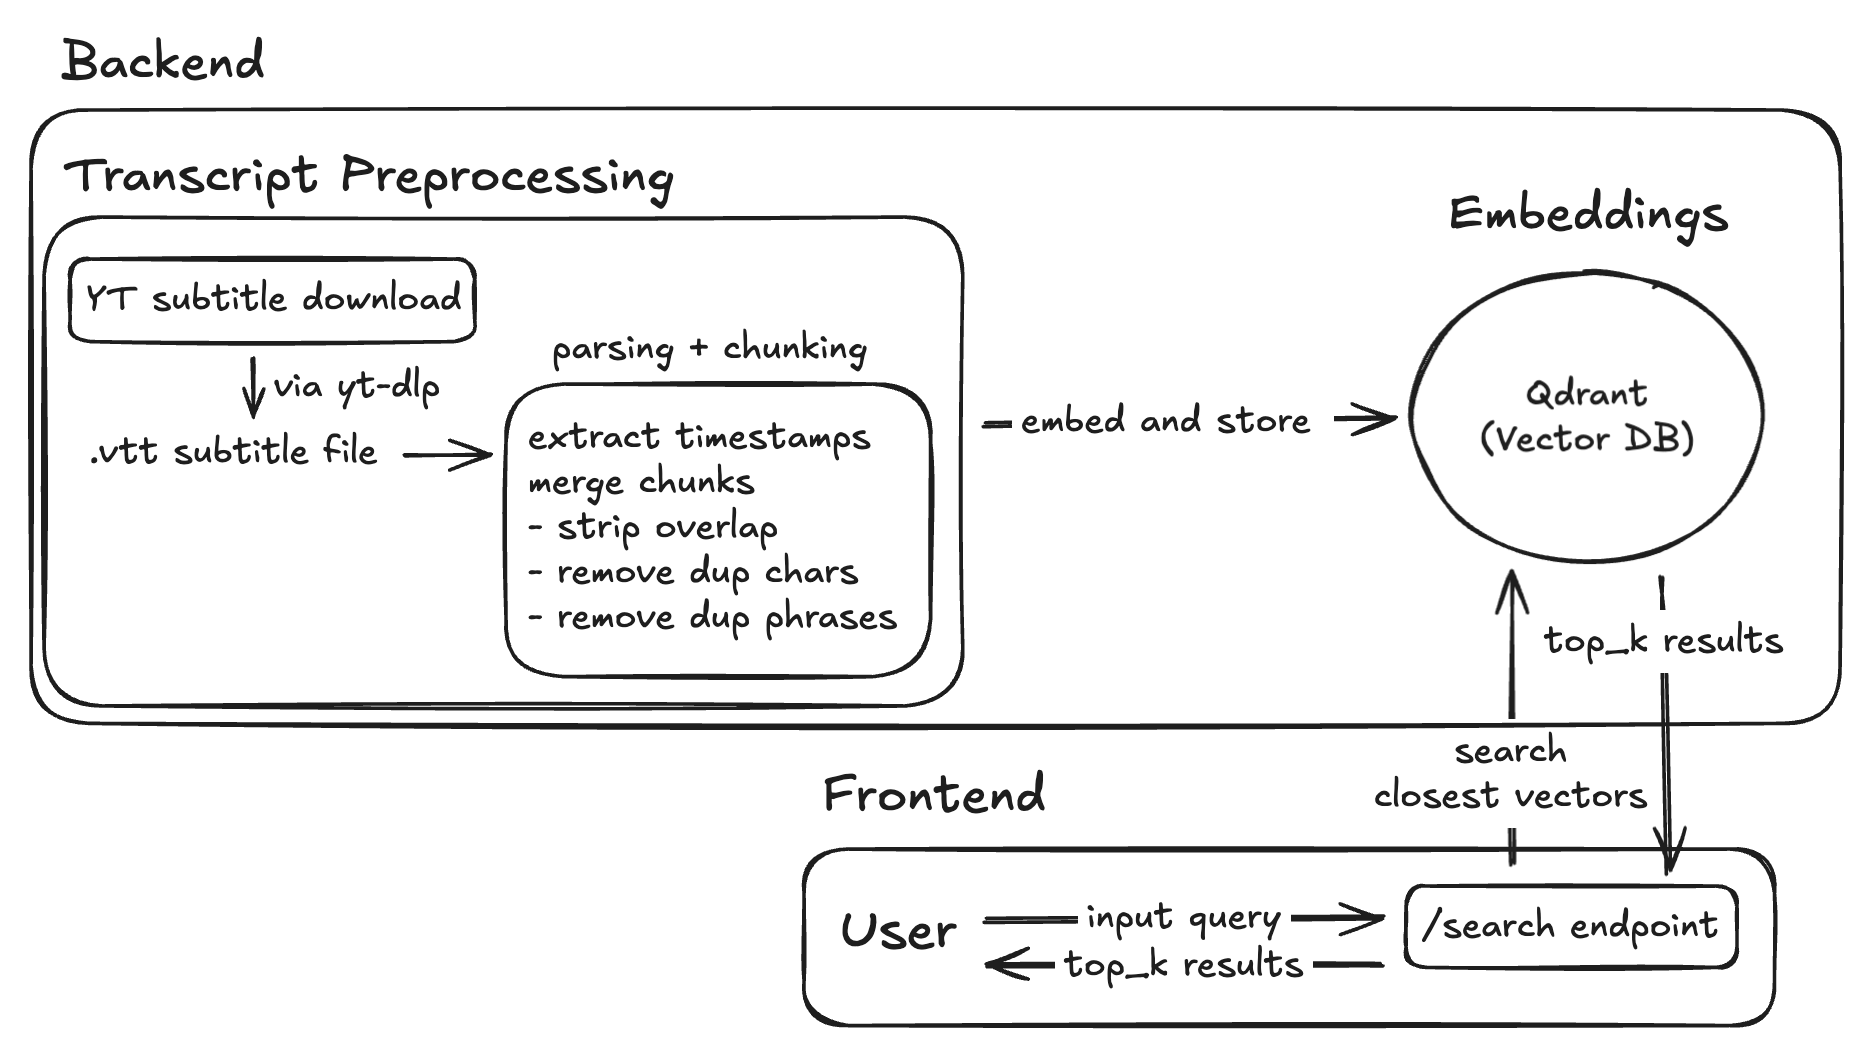
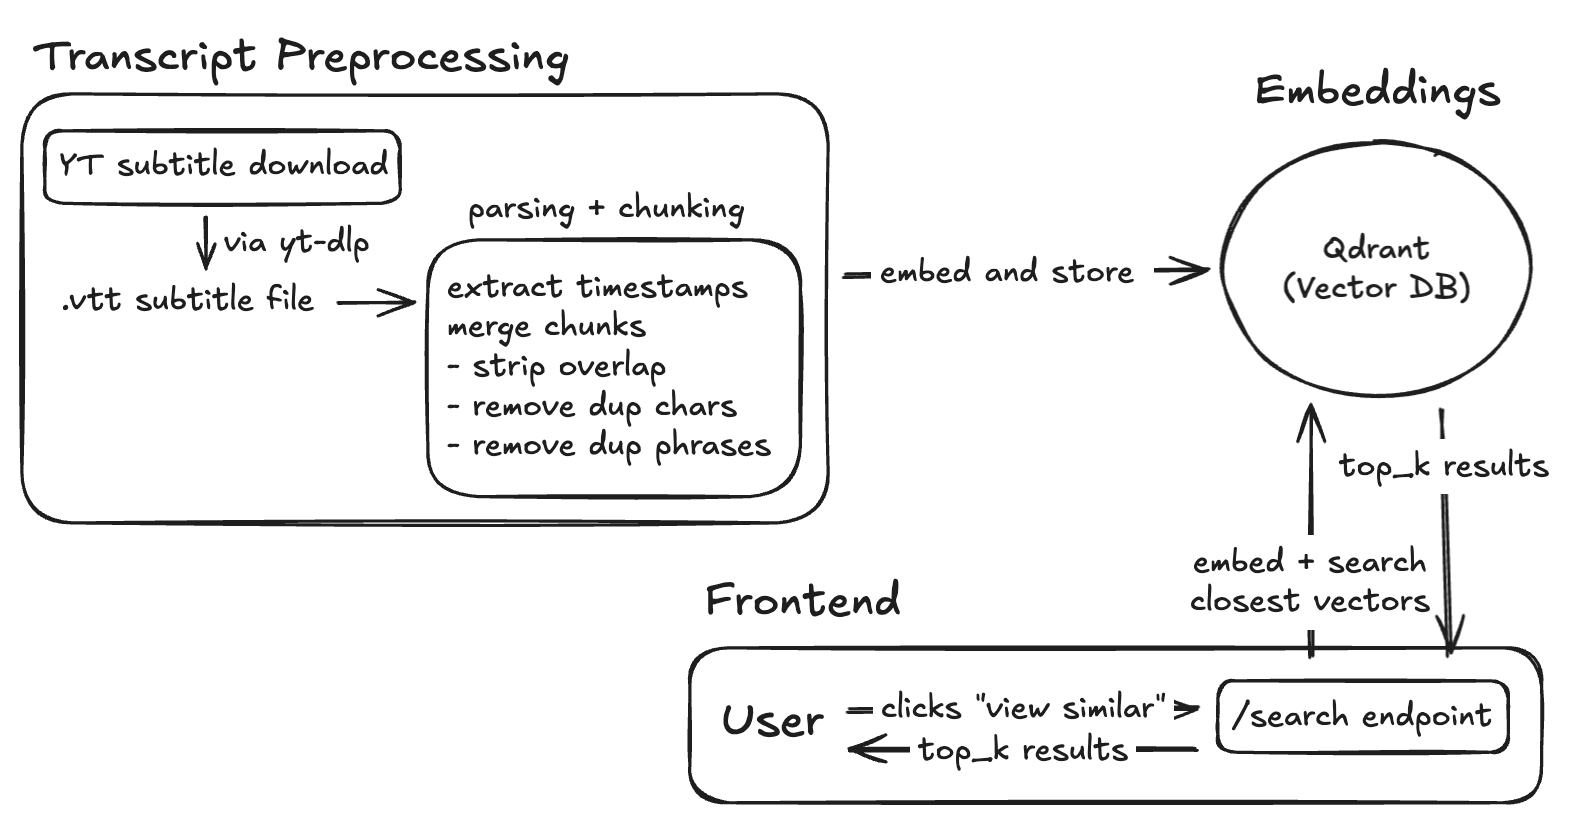
start to incl search as part of yt player flow + parser improvements

Changed region(s): [[0.0, 0.0302, 0.9899, 0.9964], [0.4021, 0.8152, 0.4331, 0.8454]]

diff --git a/backend/transcripts/vtt_parser.py b/backend/transcripts/vtt_parser.py
@@ -5,6 +5,8 @@ HARD_CHAR_LIMIT = 160
 SOFT_TOKEN_LIMIT = 35  # Approximate token threshold per chunk
 HARD_TOKEN_LIMIT = 50
 
+SENTENCE_ENDINGS = ("다", "요", "니다", ".", "!", "?")
+
 # === Transcript Parsing ===
 def clean_vtt_text(raw_text):
     # Remove inline timestamp and <c> tags
@@ -47,48 +49,61 @@ def parse_vtt_file(vtt_path):
         seg["start"] = time_str_to_seconds(seg["start"])
         seg["end"] = time_str_to_seconds(seg["end"])
 
-    return merge_chunks(raw_segments)
+    return chunk_by_sentences(raw_segments)
 
-# === Merging Chunks ===
-def merge_chunks(segments):
-    merged = []
-    curr = None
+# === Sentence-aware Chunking ===
+def chunk_by_sentences(segments):
+    chunks = []
+    current_chunk = {"text": "", "start": None, "end": None}
 
     for seg in segments:
-        seg_text = seg["text"].strip()
+        sentences = split_into_sentences(seg["text"])
+        for sentence in sentences:
+            if not sentence.strip():
+                continue
 
-        if len(seg_text) < 5:
-            continue
+            # fix overlap between sentence chunks
+            # E.g., line 1: "이 제품은 진짜 좋아요.", line 2: "진짜 좋아요. 정말 편해요."
+            sentence = strip_overlap(current_chunk["text"], sentence)
+            sentence = strip_fuzzy_overlap(current_chunk["text"], sentence)
 
-        if not curr:
-            curr = seg.copy()
-            continue
+            sentence_token_count = count_tokens(sentence)
+            sentence_char_count = len(sentence)
 
-        combined_text = f"{curr['text']} {seg_text}".strip()
-        combined_token_count = count_tokens(combined_text)
+            if current_chunk["text"]:
+                combined_text = f"{current_chunk['text']} {sentence}".strip()
+                combined_token_count = count_tokens(combined_text)
+                combined_char_count = len(combined_text)
+            else:
+                combined_text = sentence
+                combined_token_count = sentence_token_count
+                combined_char_count = sentence_char_count
 
-        if (
-            (len(combined_text) > SOFT_CHAR_LIMIT or combined_token_count > SOFT_TOKEN_LIMIT)
-            and ends_in_sentence(curr["text"])
-        ) or (
-            len(combined_text) > HARD_CHAR_LIMIT or combined_token_count > HARD_TOKEN_LIMIT
-        ):
-            merged.append(curr)
-            curr = seg.copy()
-        else:
-            seg_text = strip_overlap(curr["text"], seg_text)
-            seg_text = strip_fuzzy_overlap(curr["text"], seg_text)
-            curr["end"] = seg["end"]
-            curr["text"] = f"{curr['text']} {seg_text}".strip()
+            if (combined_token_count > HARD_TOKEN_LIMIT or combined_char_count > HARD_CHAR_LIMIT):
+                chunks.append({
+                    "text": polish_text(current_chunk["text"]),
+                    "start": current_chunk["start"],
+                    "end": current_chunk["end"]
+                })
+                current_chunk = {
+                    "text": sentence,
+                    "start": seg["start"],
+                    "end": seg["end"]
+                }
+            else:
+                if not current_chunk["text"]:
+                    current_chunk["start"] = seg["start"]
+                current_chunk["text"] = combined_text
+                current_chunk["end"] = seg["end"]
 
-    if curr:
-        merged.append(curr)
+    if current_chunk["text"]:
+        chunks.append({
+            "text": polish_text(current_chunk["text"]),
+            "start": current_chunk["start"],
+            "end": current_chunk["end"]
+        })
 
-    for m in merged:
-        m["text"] = polish_text(m["text"])
-
-    # second pass for intra-check repetitions + repeated word/phrases across chunk boundary
-    return clean_chunk_overlaps(merged)
+    return clean_chunk_overlaps(chunks)
 
 # === Overlap Handling ===
 def strip_overlap(prev_text, next_text, window=5):
@@ -109,26 +124,8 @@ def strip_fuzzy_overlap(prev: str, curr: str, max_len: int = 50) -> str:
             return curr[i:].strip()
     return curr
 
-# window = max # of consecutive repeated words to check across word boundary
-def clean_chunk_overlaps(chunks, max_overlap_len=12):
-    cleaned = [chunks[0]]
-    for i in range(1, len(chunks)):
-        prev = cleaned[-1]["text"]
-        curr = chunks[i]["text"]
-
-        for w in range(max_overlap_len, 2, -1):
-            prev_suffix = ' '.join(prev.split()[-w:])
-            if prev_suffix in curr and curr.startswith(prev_suffix):
-                curr = curr[len(prev_suffix):].strip()
-                break
-
-        cleaned.append({**chunks[i], "text": polish_text(curr)})
-
-    return cleaned
-
-# === Sentence-Aware Splitting ===
-def ends_in_sentence(text):
-    return text.endswith(("다", "요", "니다", ".", "!", "?"))
+def split_into_sentences(text):
+    return re.split(r'(?<=[\.\?!다요니다])\s+', text)
 
 # === Token Estimation ===
 def count_tokens(text):
@@ -176,5 +173,21 @@ def polish_text(text):
     text = remove_bracket_tags(text)
     text = remove_duplicate_phrases_rough(text)
     text = remove_redundant_phrases(text)
-    
     return text.strip()
+
+# === Post-chunk Deduplication ===
+def clean_chunk_overlaps(chunks, max_overlap_len=12):
+    cleaned = [chunks[0]]
+    for i in range(1, len(chunks)):
+        prev = cleaned[-1]["text"]
+        curr = chunks[i]["text"]
+
+        for w in range(max_overlap_len, 2, -1):
+            prev_suffix = ' '.join(prev.split()[-w:])
+            if prev_suffix in curr and curr.startswith(prev_suffix):
+                curr = curr[len(prev_suffix):].strip()
+                break
+
+        cleaned.append({**chunks[i], "text": polish_text(curr)})
+
+    return cleaned

diff --git a/README.md b/README.md
@@ -19,21 +19,14 @@
   - Stopword removal
   - YAML-configured grammar rule engine for scalability and easy rule expansion
 
-### Search
-
-![Semantic Search Pipeline](./docs/semantic-search-pipeline.png)
-
-- Semantic search across Korean YouTube transcripts
-  - Transcripts are automatically cleaned, deduplicated, and chunked
-  - Overlapping and repeated phrases are removed
-- Vector search powered by OpenAI (`text-embedding-3-small`) + Qdrant
-
-
 ### YouTube Player
 
 - Embedded video player with live transcript sync
 - Click any subtitle chunk to trigger a language analysis
   - Sentence gloss + inline Hanja annotations (with Pinyin + gloss)
+- Related chunk discovery (In-Progress):
+  - Semantic search across videos via OpenAI embeddings + Qdrant
+  - Shows similar phrases from other videos (based on meaning, not keywords)
 
 ### Deep Dives
 - [YouTube Player](./docs/youtube-player.md)

diff --git a/docs/youtube-player.md b/docs/youtube-player.md
@@ -1,6 +1,6 @@
 # Youtube Player
 
-This feature lets users input a YouTube link, play the video, and interact with a synchronized transcript. As the video plays, the current subtitle is highlighted. Clicking on a subtitle triggers a language analysis directly below the selected line.
+This feature lets users input a YouTube link, play the video, and interact with a synchronized transcript. As the video plays, the current subtitle is highlighted. Clicking on a subtitle triggers a language analysis directly below the selected line. 
 
 <img src="./player-example.png" alt="Player Example" width="600"/>
 
